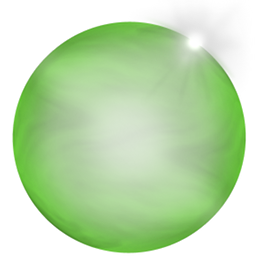
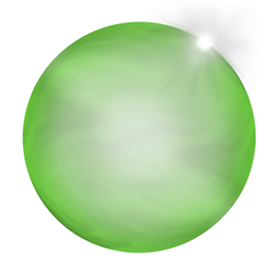
Better center 'selection bubble' in GUi skin
git-svn-id: https://svn.code.sf.net/p/supertuxkart/code@5165 178a84e3-b1eb-0310-8ba1-8eac791a3b58

diff --git a/main/trunk/src/guiengine/skin.cpp b/main/trunk/src/guiengine/skin.cpp
@@ -718,6 +718,8 @@ void Skin::drawRibbonChild(const core::rect< s32 > &rect, Widget* widget, const 
         /* draw "selection bubble" if relevant */
         if (always_show_selection && mark_selected)
         {
+            //GUIEngine::getDriver()->draw2DRectangle( SColor(255, 255,0,0), rect );
+
             ITexture* tex_bubble = SkinConfig::m_render_params["selectionHalo::neutral"].getImage();   
             
             const int texture_w = tex_bubble->getSize().Width;
@@ -727,15 +729,17 @@ void Skin::drawRibbonChild(const core::rect< s32 > &rect, Widget* widget, const 
             core::rect<s32> source_area = core::rect<s32>(0, 0, texture_w, texture_h);
             
             const float outgrow = 0.35f; // make slightly bigger than the icon it's on
-            const int rectHeight = (int)(rect.getHeight() * (1.0f + outgrow));
-            const int rectWidth = (int)(rectHeight * aspectRatio);
+            const int rectHeight = int(rect.getHeight() * (1.0f + outgrow));
+            const int rectWidth = int(rectHeight * aspectRatio);
             const int x_gap = (rect.getWidth() - rectWidth)/2;
-            const int y_shift_up = (int)(rect.getHeight() * (outgrow/2.0f));
+            const int y_shift_up = int((rectHeight - rect.getHeight()) / 2.0f);
             
             core::rect< s32 > rect2( position2d< s32 >(rect.UpperLeftCorner.X + x_gap,
                                                        rect.UpperLeftCorner.Y - y_shift_up),
-                                    dimension2d< s32 >(rectWidth, rectHeight) );
+                                     dimension2d< s32 >(rectWidth, rectHeight) );
             
+            //GUIEngine::getDriver()->draw2DRectangleOutline( rect2, SColor(255, 0,255,0) );
+
             GUIEngine::getDriver()->draw2DImage(tex_bubble, rect2, source_area,
                                                 0 /* no clipping */, 0, true /* alpha */);
         }
